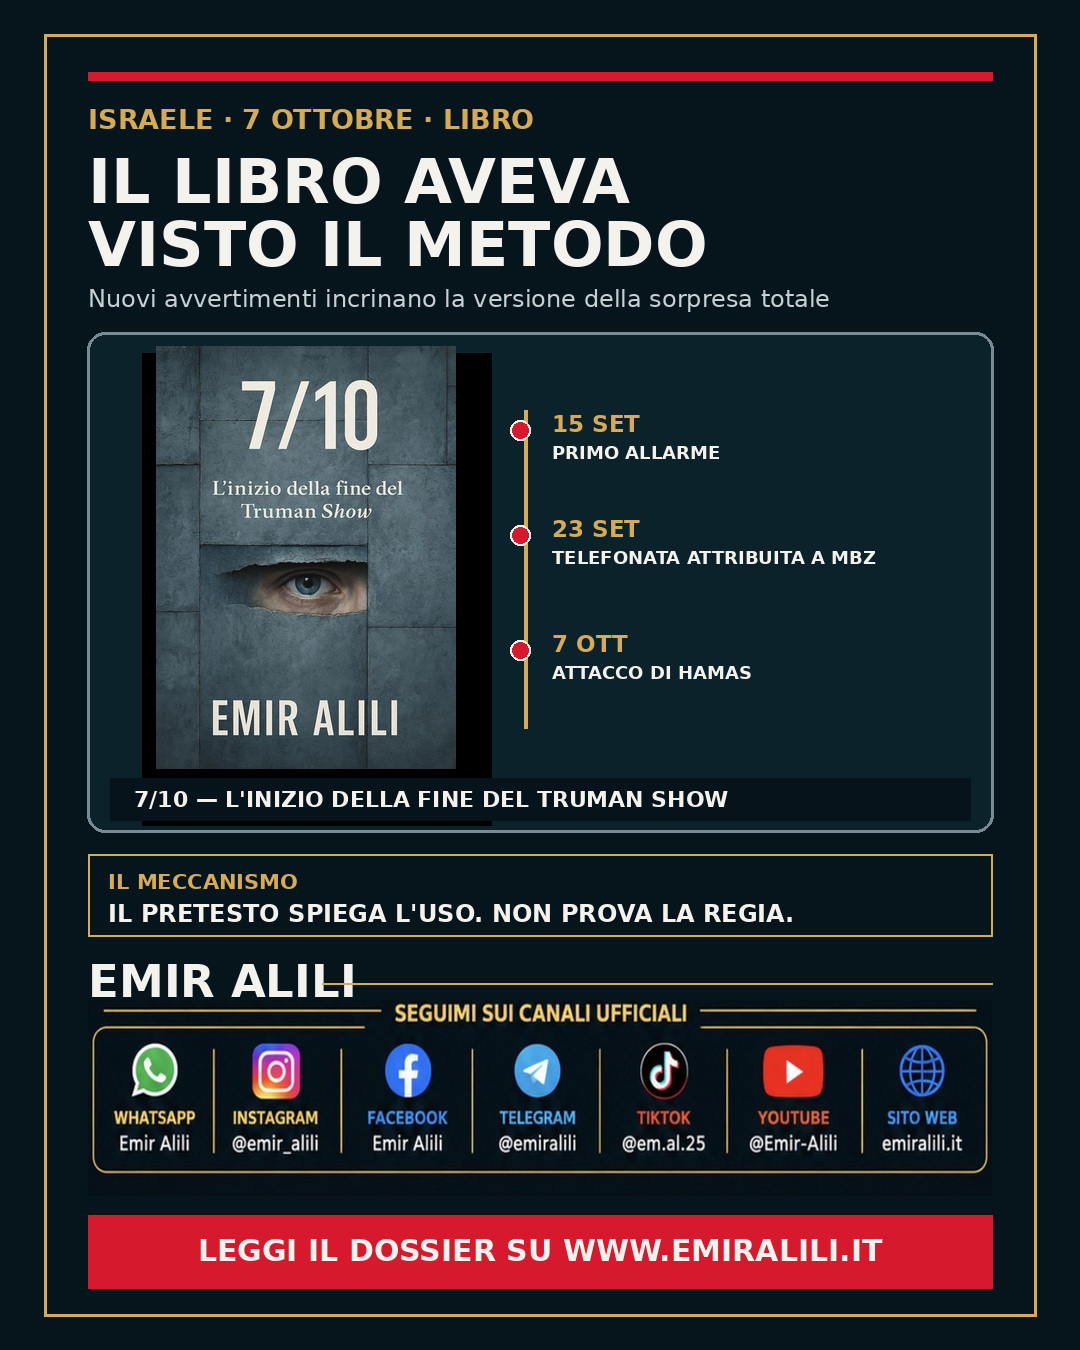
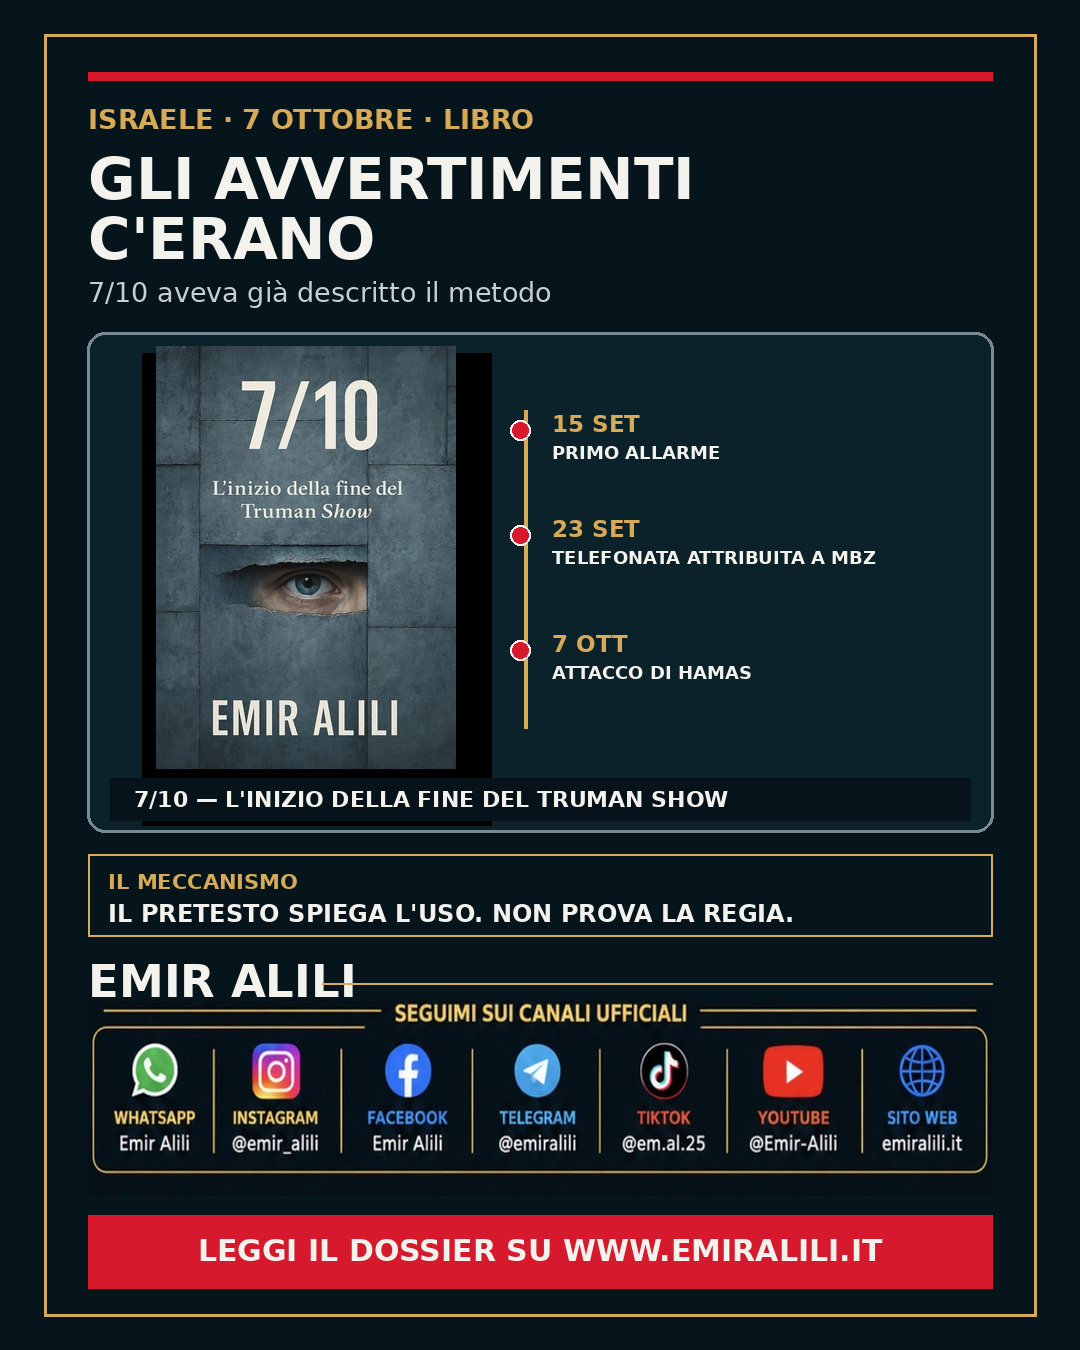
Rivedi titolo, apertura e copertina del dossier 7/10

Changed region(s): [[0.0611, 0.0933, 0.7639, 0.2489]]

diff --git a/libro-710-avvertimenti-netanyahu.html b/libro-710-avvertimenti-netanyahu.html
@@ -1,19 +1,19 @@
 <!doctype html><html lang="it"><head>
 <meta charset="utf-8"><meta name="viewport" content="width=device-width,initial-scale=1">
-<title>7 ottobre, gli avvertimenti e il libro che aveva visto il metodo</title>
+<title>Gli avvertimenti c’erano: 7/10 aveva già descritto il metodo</title>
 <meta name="description" content="L’inchiesta sull’allarme emiratino a Netanyahu rafforza la tesi di 7/10 di Emir Alili: il nemico utile, il pretesto e i limiti della prova sulla regia.">
 <meta name="author" content="Emir Alili — Presidente MDP"><link rel="canonical" href="https://emiralili.it/libro-710-avvertimenti-netanyahu.html"><meta name="robots" content="index,follow,max-image-preview:large">
-<meta property="og:type" content="article"><meta property="og:locale" content="it_IT"><meta property="og:site_name" content="Emir Alili"><meta property="og:title" content="Il libro aveva visto il metodo"><meta property="og:description" content="L’allarme attribuito agli Emirati incrina ancora la sorpresa totale. 7/10 aveva già descritto il nemico utile e il pretesto; la regia resta da provare."><meta property="og:url" content="https://emiralili.it/libro-710-avvertimenti-netanyahu.html"><meta property="og:image" content="https://emiralili.it/assets/social/libro-710-avvertimenti-instagram.jpg">
-<meta property="article:published_time" content="2026-09-08T13:15:00+02:00"><meta property="article:modified_time" content="2026-09-08T13:15:00+02:00"><meta name="twitter:card" content="summary_large_image"><meta name="twitter:image" content="https://emiralili.it/assets/social/libro-710-avvertimenti-instagram.jpg">
+<meta property="og:type" content="article"><meta property="og:locale" content="it_IT"><meta property="og:site_name" content="Emir Alili"><meta property="og:title" content="Gli avvertimenti c’erano: il libro aveva visto il metodo"><meta property="og:description" content="Dal primo allarme del 15 settembre alla segnalazione attribuita a MBZ: la cronologia incrina la sorpresa totale, senza dimostrare una regia israeliana."><meta property="og:url" content="https://emiralili.it/libro-710-avvertimenti-netanyahu.html"><meta property="og:image" content="https://emiralili.it/assets/social/libro-710-avvertimenti-instagram.jpg">
+<meta property="article:published_time" content="2026-09-08T13:15:00+02:00"><meta property="article:modified_time" content="2026-09-08T15:10:00+02:00"><meta name="twitter:card" content="summary_large_image"><meta name="twitter:image" content="https://emiralili.it/assets/social/libro-710-avvertimenti-instagram.jpg">
 <link rel="stylesheet" href="modern.css?v=5"><link rel="stylesheet" href="editorial.css?v=5">
-<script type="application/ld+json">{"@context":"https://schema.org","@type":"NewsArticle","headline":"Il libro aveva visto il metodo","description":"L’inchiesta sull’allarme emiratino a Netanyahu rafforza la tesi di 7/10 di Emir Alili: il nemico utile, il pretesto e i limiti della prova sulla regia.","image":["https://emiralili.it/assets/social/libro-710-avvertimenti-instagram.jpg"],"datePublished":"2026-09-08T13:15:00+02:00","dateModified":"2026-09-08T13:15:00+02:00","articleSection":"Israele, Gaza e 7 ottobre","inLanguage":"it-IT","mainEntityOfPage":{"@type":"WebPage","@id":"https://emiralili.it/libro-710-avvertimenti-netanyahu.html"},"author":{"@type":"Person","name":"Emir Alili — Presidente MDP","url":"https://emiralili.it/chi-sono.html"},"publisher":{"@type":"Organization","name":"Emir Alili","url":"https://emiralili.it/"},"isAccessibleForFree":true}</script>
+<script type="application/ld+json">{"@context":"https://schema.org","@type":"NewsArticle","headline":"Gli avvertimenti c’erano: il libro aveva visto il metodo","description":"Dal primo allarme del 15 settembre alla segnalazione attribuita a MBZ: la cronologia incrina la sorpresa totale, senza dimostrare una regia israeliana.","image":["https://emiralili.it/assets/social/libro-710-avvertimenti-instagram.jpg"],"datePublished":"2026-09-08T13:15:00+02:00","dateModified":"2026-09-08T15:10:00+02:00","articleSection":"Israele, Gaza e 7 ottobre","inLanguage":"it-IT","mainEntityOfPage":{"@type":"WebPage","@id":"https://emiralili.it/libro-710-avvertimenti-netanyahu.html"},"author":{"@type":"Person","name":"Emir Alili — Presidente MDP","url":"https://emiralili.it/chi-sono.html"},"publisher":{"@type":"Organization","name":"Emir Alili","url":"https://emiralili.it/"},"isAccessibleForFree":true}</script>
 </head><body>
 <header><a class="logo" href="/"><span>EA</span><b>Emir Alili</b></a><nav><a href="/">Home</a><a href="chi-sono.html">Chi sono</a><a href="analisi.html">Geopolitica</a><a href="contatti.html">Contatti</a></nav><button class="menu" aria-label="Apri menu"><i></i><i></i></button></header>
 <div class="mobile-nav"><a href="/">Home</a><a href="chi-sono.html">Chi sono</a><a href="analisi.html">Geopolitica</a><a href="contatti.html">Contatti</a></div>
-<main class="report"><section class="report-head"><p class="kicker">Israele · 7 ottobre · Intelligence · Libro</p><h1>Il libro aveva visto il metodo</h1><p class="report-deck">Una nuova inchiesta attribuisce a Mohammed bin Zayed un avvertimento diretto a Netanyahu prima del 7 ottobre. Il manoscritto di <em>7/10 — L’inizio della fine del Truman Show</em>, chiuso mesi prima di questa rivelazione, aveva già descritto il nodo: Hamas come nemico utile, la sorpresa totale come versione insufficiente e l’attacco trasformato in autorizzazione politica alla distruzione di Gaza. L’allarme rafforza quella lettura. Non prova, da solo, che il governo israeliano abbia pianificato l’attacco.</p><div class="report-meta"><span>Emir Alili — Presidente MDP</span><time datetime="2026-09-08T13:15:00+02:00">8 settembre 2026 · 13:15</time><span>11 min di lettura</span></div></section>
+<main class="report"><section class="report-head"><p class="kicker">Israele · 7 ottobre · Intelligence · Libro</p><h1>Gli avvertimenti c’erano: il libro aveva visto il metodo</h1><p class="report-deck">15 settembre: un primo allarme entra nello Shin Bet. 23 settembre: un avvertimento diretto viene attribuito a Mohammed bin Zayed. 7 ottobre: Hamas attacca. La sequenza non dimostra una regia israeliana, ma obbliga a superare la formula della “sorpresa totale” e riporta al meccanismo descritto in <em>7/10 — L’inizio della fine del Truman Show</em>: un nemico ritenuto utile e contenibile, un rischio sottovalutato e una catastrofe trasformata in programma politico.</p><div class="report-meta"><span>Emir Alili — Presidente MDP</span><time datetime="2026-09-08T13:15:00+02:00">8 settembre 2026 · aggiornato alle 15:10</time><span>11 min di lettura</span></div></section>
 <figure class="report-cover"><img src="/assets/social/libro-710-avvertimenti-instagram.jpg" alt="Copertina del dossier con il libro 7/10 di Emir Alili e la cronologia degli avvertimenti precedenti all’attacco" width="1080" height="1350"><figcaption>Copertina editoriale con la riproduzione del libro <em>7/10 — L’inizio della fine del Truman Show</em>. La cronologia distingue fatti accertati e accuse contestate.</figcaption></figure>
 <article class="report-body">
-<p class="lead">L’8 settembre 2026 <em>Haaretz</em> ha pubblicato una ricostruzione secondo cui il presidente degli Emirati Arabi Uniti Mohammed bin Zayed avrebbe avvertito Benjamin Netanyahu, il 23 settembre 2023, che Yahya Sinwar preparava una grande operazione. L’ufficio del premier israeliano nega sia la telefonata sia l’avvertimento. La notizia non chiude il caso del 7 ottobre: aggiunge un nuovo elemento a una catena già documentata di piani disponibili, segnali sottovalutati, dottrina politica e fallimenti operativi. È precisamente la catena che il mio libro aveva messo al centro.</p>
+<p class="lead"><strong>Se il 15 settembre era già circolato un allarme, e se il 23 settembre Netanyahu ricevette davvero la segnalazione attribuita al presidente emiratino Mohammed bin Zayed, in quale senso il 7 ottobre può ancora essere descritto come una sorpresa assoluta?</strong> L’inchiesta pubblicata da <em>Haaretz</em> l’8 settembre 2026 non fornisce la prova di una regia israeliana: l’ufficio del premier nega che la telefonata sia mai avvenuta. Introduce però un elemento preciso dentro una cronologia di piani conosciuti, segnali sottovalutati e informazioni non condivise. <em>7/10 — L’inizio della fine del Truman Show</em> aveva già ricostruito quel metodo prima che emergesse questa nuova accusa: la gestione di Hamas come nemico funzionale alla divisione palestinese, il fallimento della dottrina del contenimento e l’uso dell’attacco come pretesto per un progetto politico e territoriale più ampio.</p>
 
 <h2>1. Il Fatto &amp; La Manovra Egemonica</h2>
 <p><strong>La nuova accusa.</strong> La ricostruzione di <em>Haaretz</em>, rilanciata da <a href="https://www.jpost.com/israel-news/defense-news/article-907896" target="_blank" rel="noopener">Jerusalem Post</a>, <a href="https://www.timesofisrael.com/liveblog-september-8-2026/" target="_blank" rel="noopener">Times of Israel</a> e <a href="https://www.repubblica.it/esteri/2026/09/08/news/israele_accuse_shock_netanyahu_fu_avvertito_da_emirati_prima_del_7_ottobre_ma_non_informo_intelligence-425571850/" target="_blank" rel="noopener">Repubblica</a>, cita tre fonti straniere informate sulla conversazione. Secondo il racconto, Bin Zayed avrebbe parlato per 45 minuti con Netanyahu circa dieci giorni prima dell’attacco, riferendo che Sinwar preparava un “terremoto”. Netanyahu avrebbe risposto che Israele era pronto e che Hamas guardava soprattutto alla Cisgiordania.</p>

diff --git a/index.html b/index.html
@@ -9,7 +9,7 @@
 <div class="mobile-nav"><a href="/">Home</a><a href="#ultime">Ultime analisi</a><a href="analisi.html">Geopolitica</a><a href="metodo.html">Metodo</a><a href="chi-sono.html">Chi sono</a><a href="contatti.html">Contatti</a></div><main>
 <section class="geo-home-hero"><div class="geo-home-hero-copy"><p class="kicker">Osservatorio geopolitico indipendente</p><h1>Geopolitica<em>oltre la cronaca.</em></h1><p>Dossier documentati per comprendere interessi, rapporti di forza e strumenti del potere dietro le crisi internazionali. Medio Oriente, Europa, energia, sanzioni, intelligence e trasformazioni dell’ordine globale.</p><div class="hero-actions"><a class="btn solid" href="#ultime">Leggi l’ultimo dossier ↓</a><a class="btn line" href="metodo.html">Il metodo “Cui prodest?” ↗</a></div></div></section>
 <div class="geo-ticker"><span>Medio Oriente</span><span>Palestina e Israele</span><span>Energia e sanzioni</span><span>Europa e NATO</span><span>Russia e Cina</span><span>Balcani</span></div>
-<section class="home-feature" id="ultime"><div class="home-editorial-head"><p class="section-tag">In primo piano</p><h2>L’analisi al centro.</h2></div><a class="feature-dossier" href="libro-710-avvertimenti-netanyahu.html"><figure><img src="/assets/social/libro-710-avvertimenti-instagram.jpg" alt="Copertina del dossier sul libro 7/10 e sugli avvertimenti precedenti all’attacco" width="1080" height="1350"></figure><div class="feature-copy"><span>Israele · 7 ottobre · Intelligence</span><time datetime="2026-09-08T13:15:00+02:00">8 settembre 2026 · 13:15</time><h3>Il libro aveva visto il metodo</h3><p>L’allarme attribuito agli Emirati rafforza la tesi di 7/10, senza provare una regia israeliana dell’attacco.</p><b>Leggi il dossier →</b></div></a></section>
+<section class="home-feature" id="ultime"><div class="home-editorial-head"><p class="section-tag">In primo piano</p><h2>L’analisi al centro.</h2></div><a class="feature-dossier" href="libro-710-avvertimenti-netanyahu.html"><figure><img src="/assets/social/libro-710-avvertimenti-instagram.jpg" alt="Copertina del dossier sul libro 7/10 e sulla cronologia degli avvertimenti precedenti all’attacco" width="1080" height="1350"></figure><div class="feature-copy"><span>Israele · 7 ottobre · Intelligence</span><time datetime="2026-09-08T13:15:00+02:00">Aggiornato l’8 settembre 2026</time><h3>Gli avvertimenti c’erano: il libro aveva visto il metodo</h3><p>Dal 15 settembre al 7 ottobre: la cronologia incrina la sorpresa totale, senza trasformare l’omissione in prova della regia.</p><b>Leggi il dossier →</b></div></a></section>
 <section class="geo-publications home-latest"><div class="home-editorial-head"><p class="section-tag">Ultime pubblicazioni</p><h2>Dossier recenti.</h2></div><div class="geo-grid home-dossier-grid">
 <a class="geo-card" href="siria-uranio-aiea-israele.html"><img src="/assets/social/siria-uranio-aiea-instagram.jpg" alt="Copertina del dossier sulle 73 tonnellate di uranio naturale siriano poste sotto sorveglianza AIEA" width="1080" height="1350"><span>Siria · Nucleare · AIEA</span><time datetime="2026-09-07T19:00:00+02:00">7 settembre 2026 · 19:00</time><h3>L’uranio nascosto riapre Damasco</h3><p>Settantatré tonnellate sotto sorveglianza trasformano un segreto del regime Assad in una credenziale per la nuova Siria.</p><b>Leggi →</b></a>
 <a class="geo-card" href="germania-icj-gaza-armi.html"><img src="/assets/social/germania-icj-gaza-instagram.jpg" alt="Copertina del dossier sull’obiezione preliminare tedesca davanti alla Corte internazionale di giustizia" width="1080" height="1350"><span>Germania · Israele · Corte dell’Aia</span><time datetime="2026-09-07T12:31:00+02:00">7 settembre 2026 · 12:31</time><h3>Berlino porta Gaza fuori dal merito</h3><p>La Germania chiede alla Corte dell’Aia di fermare il ricorso sulle forniture militari prima dell’esame di merito.</p><b>Leggi →</b></a>

diff --git a/analisi.html b/analisi.html
@@ -37,7 +37,7 @@
 <div class="archive-status" aria-live="polite"><p id="active-area">Tutte le pubblicazioni</p><span id="result-count">72 dossier</span></div>
 </section>
 <section class="archive-list" id="archive-results">
-<a class="archive-entry" href="libro-710-avvertimenti-netanyahu.html" data-area="medio-oriente" data-search="israele gaza 7 ottobre netanyahu emirati mbz intelligence avvertimento hamas libro emir alili sionismo pretesto genocidio"><div class="entry-meta"><time datetime="2026-09-08T13:15:00+02:00">8 settembre 2026 · 13:15</time><span>Medio Oriente</span></div><div class="entry-copy"><h2>Il libro aveva visto il metodo</h2><p>L’allarme attribuito agli Emirati rafforza la tesi di 7/10, ma non prova la regia dell’attacco.</p></div><b>Leggi ↗</b></a>
+<a class="archive-entry" href="libro-710-avvertimenti-netanyahu.html" data-area="medio-oriente" data-search="israele gaza 7 ottobre netanyahu emirati mbz intelligence avvertimento hamas libro emir alili sionismo pretesto genocidio"><div class="entry-meta"><time datetime="2026-09-08T13:15:00+02:00">Aggiornato l’8 settembre 2026</time><span>Medio Oriente</span></div><div class="entry-copy"><h2>Gli avvertimenti c’erano: il libro aveva visto il metodo</h2><p>La sequenza 15 settembre–23 settembre–7 ottobre incrina la versione della sorpresa totale, senza provare una regia israeliana.</p></div><b>Leggi ↗</b></a>
 <a class="archive-entry" href="houthi-attacchi-arabia-saudita-patto-mecca.html" data-area="medio-oriente" data-search="arabia saudita yemen houthi jazan najran abha khamis mushait aramco petrolio energia droni missili patto mecca turchia pakistan difesa collettiva"><div class="entry-meta"><time datetime="2026-09-08T12:30:00+02:00">8 settembre 2026 · 12:30</time><span>Medio Oriente</span></div><div class="entry-copy"><h2>Il Patto della Mecca entra sotto tiro</h2><p>Missili e droni contro quattro città saudite trasformano la difesa collettiva in una prova politica e militare.</p></div><b>Leggi ↗</b></a>
 <a class="archive-entry" href="siria-uranio-aiea-israele.html" data-area="medio-oriente" data-search="siria damasco assad uranio naturale aiea iaea nucleare deir ez-zor israele reattore plutonio salvaguardie sorveglianza tnp grossi riabilitazione"><div class="entry-meta"><time datetime="2026-09-07T19:00:00+02:00">7 settembre 2026 · 19:00</time><span>Medio Oriente</span></div><div class="entry-copy"><h2>L’uranio nascosto riapre Damasco</h2><p>Settantatré tonnellate sotto sorveglianza trasformano un segreto del regime Assad in una credenziale per la nuova Siria.</p></div><b>Leggi ↗</b></a>
 <a class="archive-entry" href="germania-icj-gaza-armi.html" data-area="europa" data-search="germania berlino nicaragua israele gaza corte internazionale giustizia aia icj genocidio armi forniture militari giurisdizione obiezioni preliminari lawfare diritto internazionale"><div class="entry-meta"><time datetime="2026-09-07T12:31:00+02:00">7 settembre 2026 · 12:31</time><span>Europa</span></div><div class="entry-copy"><h2>Berlino porta Gaza fuori dal merito</h2><p>La Germania chiede alla Corte dell’Aia di chiudere il ricorso del Nicaragua prima che siano esaminate le forniture militari a Israele.</p></div><b>Leggi ↗</b></a>

diff --git a/scripts/build_libro_710_cover.py b/scripts/build_libro_710_cover.py
@@ -19,9 +19,9 @@ d = ImageDraw.Draw(im)
 d.rectangle((44, 34, W-44, H-34), outline=GOLD, width=3)
 d.rectangle((88, 72, W-88, 80), fill=RED)
 d.text((88, 103), "ISRAELE · 7 OTTOBRE · LIBRO", fill=GOLD, font=font(FONT_B, 27))
-d.text((88, 145), "IL LIBRO AVEVA", fill=WHITE, font=font(FONT_B, 62))
-d.text((88, 208), "VISTO IL METODO", fill=WHITE, font=font(FONT_B, 62))
-d.text((88, 284), "Nuovi avvertimenti incrinano la versione della sorpresa totale", fill=MUTED, font=font(FONT_R, 24))
+d.text((88, 145), "GLI AVVERTIMENTI", fill=WHITE, font=font(FONT_B, 58))
+d.text((88, 205), "C'ERANO", fill=WHITE, font=font(FONT_B, 58))
+d.text((88, 276), "7/10 aveva già descritto il metodo", fill=MUTED, font=font(FONT_R, 27))
 
 # Central editorial still life: the real book cover, lifted from the site asset.
 d.rounded_rectangle((87, 332, 993, 832), radius=18, fill="#0c222b", outline="#788b95", width=3)
